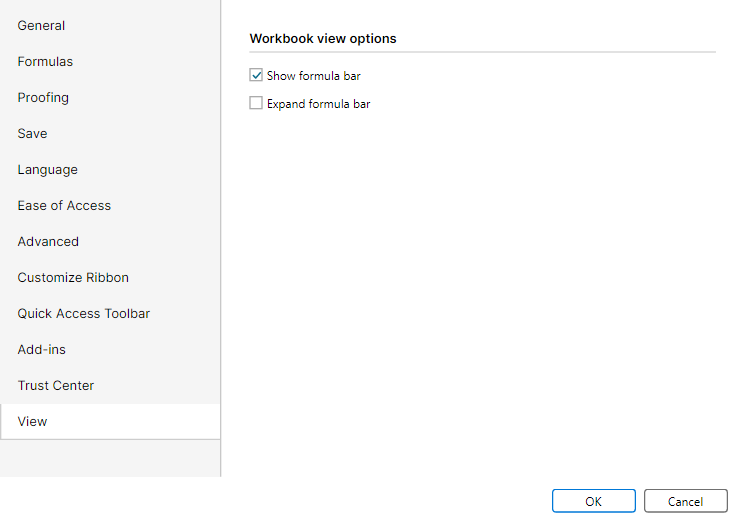
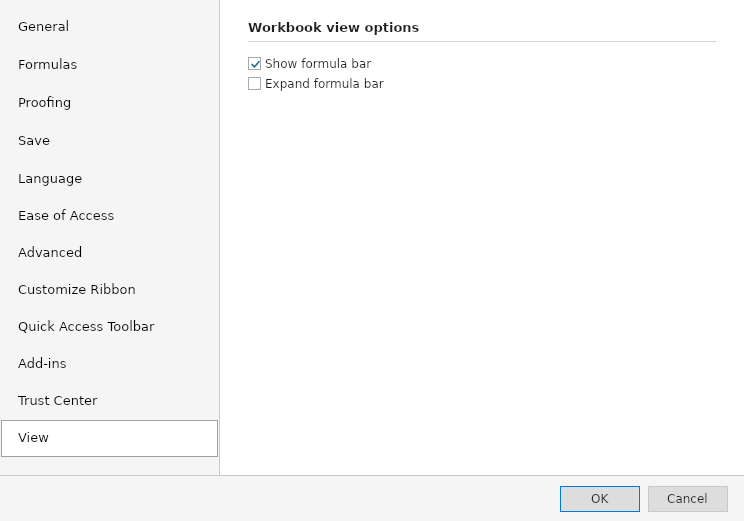
FreeX: align Avalonia Options View parity

diff --git a/src/FreeX.App.Avalonia/MainWindow.Options.cs b/src/FreeX.App.Avalonia/MainWindow.Options.cs
@@ -52,8 +52,11 @@ public sealed partial class MainWindow
         const double optionsFormulasDialogWidth = OptionsDialogPlanner.CaptureWidth;
         const double optionsFormulasDialogHeight = OptionsDialogPlanner.FormulasCaptureHeight;
 
-        // Edit a snapshot loaded from the shared store so unmanaged fields round-trip untouched.
-        var current = AppOptionsStore.Load();
+        // Edit a snapshot loaded from the shared store during normal use. The capture route swaps
+        // in a deterministic shared fixture so paired screenshots do not inherit user-local state.
+        var current = App.ParityCaptureOptions is null
+            ? AppOptionsStore.Load()
+            : OptionsDialogParityFixture.Create();
         var quickAccessCommandIds = QuickAccessToolbarCatalog.NormalizeCommandIds(current.QuickAccessToolbarCommands).ToList();
         var customDictionaryWords = AppOptions.NormalizeSpellCheckCustomDictionaryWords(current.SpellCheckCustomDictionaryWords);
         var warningText = new TextBlock
@@ -410,9 +413,10 @@ public sealed partial class MainWindow
         AutomationProperties.SetAutomationId(showHeadingsBox, "OptionsShowHeadingsCheckBox");
 
         var viewPanel = OptionsCategoryPanel(
-            OptionsSectionHeader(OptionsText("Options_WorkbookViewOptions")),
+            OptionsSectionHeader(OptionsText("Options_WorkbookViewOptions"), topMargin: 0, bottomMargin: 12),
             showFormulaBarBox,
             OptionsCheckBox(OptionsText("Options_ExpandFormulaBar"), isEnabled: showFormulaBarBox.IsChecked == true));
+        viewPanel.Spacing = 0;
 
         // ── Save ────────────────────────────────────────────────────────────────
         var defaultFormatBox = new ComboBox
@@ -984,6 +988,11 @@ public sealed partial class MainWindow
         for (var i = 0; i < categoryNames.Length; i++)
         {
             var index = i;
+            // Avalonia rounds each row independently. Match WPF's 37.36 px logical row at
+            // 96 DPI by carrying the first five rows at 38 px and the remaining rows at 37 px.
+            var categoryItemHeight = index < 5
+                ? Math.Ceiling(OptionsDialogPlanner.CategoryItemHeight)
+                : Math.Floor(OptionsDialogPlanner.CategoryItemHeight);
             var row = new Border
             {
                 Padding = new Thickness(
@@ -992,6 +1001,10 @@ public sealed partial class MainWindow
                 BorderThickness = new Thickness(1),
                 BorderBrush = Brushes.Transparent,
                 Background = Brushes.Transparent,
+                Margin = new Thickness(1, 0, 1, 0),
+                Height = categoryItemHeight,
+                MinHeight = categoryItemHeight,
+                MaxHeight = categoryItemHeight,
                 Child = new TextBlock
                 {
                     Text = categoryNames[i],
@@ -1226,8 +1239,6 @@ public sealed partial class MainWindow
             MaxHeight = OptionsDialogPlanner.FooterHeight,
             Child = footerActions,
         };
-        DockPanel.SetDock(buttonRow, Dock.Bottom);
-
         var body = new Grid
         {
             ColumnDefinitions = new ColumnDefinitions($"{OptionsDialogPlanner.CategoryColumnWidth},*"),
@@ -1257,11 +1268,14 @@ public sealed partial class MainWindow
         body.Children.Add(categoryFrame);
         body.Children.Add(scrollHost);
 
-        dialog.Content = new DockPanel
+        dialog.Content = new Grid
         {
             Background = Brushes.White,
-            Children = { buttonRow, body },
+            RowDefinitions = new RowDefinitions("*,Auto"),
+            Children = { body, buttonRow },
         };
+        Grid.SetRow(body, 0);
+        Grid.SetRow(buttonRow, 1);
 
         await dialog.ShowDialog(this);
     }

diff --git a/tests/FreeX.App.Avalonia.Tests/OptionsDialogAdvancedParitySourceTests.cs b/tests/FreeX.App.Avalonia.Tests/OptionsDialogAdvancedParitySourceTests.cs
@@ -35,6 +35,22 @@ public sealed class OptionsDialogAdvancedParitySourceTests
     }
 
     [Fact]
+    public void ViewOptions_UsesWpfHeaderRhythmAndCaptureFixture()
+    {
+        var source = File.ReadAllText(RepoFile("src", "FreeX.App.Avalonia", "MainWindow.Options.cs"));
+        var wpf = File.ReadAllText(RepoFile("src", "FreeX.App.Host", "ParityCapture.cs"));
+        var fixture = File.ReadAllText(RepoFile("src", "FreeX.App.Services", "OptionsDialogParityFixture.cs"));
+
+        source.Should().Contain("OptionsDialogParityFixture.Create()");
+        source.Should().Contain("OptionsSectionHeader(OptionsText(\"Options_WorkbookViewOptions\"), topMargin: 0, bottomMargin: 12)");
+        source.Should().Contain("viewPanel.Spacing = 0;");
+        source.Should().Contain("RowDefinitions = new RowDefinitions(\"*,Auto\")");
+        wpf.Should().Contain("OptionsDialogParityFixture.Create()");
+        fixture.Should().Contain("ShowFormulaBar = true");
+        fixture.Should().Contain("FormulaBarExpanded = false");
+    }
+
+    [Fact]
     public void AdvancedOptions_PreservesInteractiveStatesAndObjectsSelection()
     {
         var source = File.ReadAllText(RepoFile("src", "FreeX.App.Avalonia", "MainWindow.Options.cs"));

diff --git a/src/FreeX.App.Host/ParityCapture.cs b/src/FreeX.App.Host/ParityCapture.cs
@@ -619,7 +619,7 @@ internal static class ParityCapture
                 string.Equals(targetSurfaceId, "dialog.Options.TrustCenter", StringComparison.Ordinal))
             {
                 CaptureDialogTabs(results, "dialog.Options", outDir,
-                    () => new OptionsDialog(FreeXOptions.Load()),
+                    () => new OptionsDialog(FreeXOptions.FromAppOptions(OptionsDialogParityFixture.Create())),
                     ["General", "Formulas", "Proofing", "Save", "Language", "EaseOfAccess",
                         "Advanced", "CustomizeRibbon", "QuickAccessToolbar", "AddIns", "TrustCenter", "View"],
                     captureSizeResolver: surfaceId =>
@@ -850,7 +850,7 @@ internal static class ParityCapture
             () => new HeaderFooterDialog(sheet));
 
         CaptureDialogTabs(results, "dialog.Options", outDir,
-            () => new OptionsDialog(FreeXOptions.Load()),
+            () => new OptionsDialog(FreeXOptions.FromAppOptions(OptionsDialogParityFixture.Create())),
             [
                 "General", "Formulas", "Proofing", "Save", "Language", "EaseOfAccess",
                 "Advanced", "CustomizeRibbon", "QuickAccessToolbar", "AddIns", "TrustCenter", "View",

diff --git a/tests/FreeX.App.Services.Tests/OptionsDialogPlannerTests.cs b/tests/FreeX.App.Services.Tests/OptionsDialogPlannerTests.cs
@@ -5,9 +5,21 @@ namespace FreeX.App.Services.Tests;
 public sealed class OptionsDialogPlannerTests
 {
     [Fact]
+    public void ParityFixtureUsesProductionViewDefaultsWithoutPersistingState()
+    {
+        var options = OptionsDialogParityFixture.Create();
+
+        options.ShowFormulaBar.Should().BeTrue();
+        options.FormulaBarExpanded.Should().BeFalse();
+        options.ShowGridlines.Should().BeTrue();
+        options.ShowHeadings.Should().BeTrue();
+    }
+
+    [Fact]
     public void AdvancedLayout_UsesSharedWpfCaptureMetrics()
     {
         OptionsDialogPlanner.CategoryColumnWidth.Should().Be(220);
+        OptionsDialogPlanner.CategoryItemHeight.Should().Be(37.36);
         OptionsDialogPlanner.ContentPaddingHorizontal.Should().Be(28);
         OptionsDialogPlanner.ContentPaddingVertical.Should().Be(20);
         OptionsDialogPlanner.FooterHeight.Should().Be(46);

diff --git a/src/FreeX.App.Services/OptionsDialogParityFixture.cs b/src/FreeX.App.Services/OptionsDialogParityFixture.cs
@@ -1,0 +1,16 @@
+namespace FreeX.App.Services;
+
+/// <summary>
+/// Deterministic options state used only by the WPF/Avalonia parity-capture routes.
+/// Keeping the fixture in shared services prevents paired screenshots from inheriting
+/// different user-local options stores while leaving normal launches store-backed.
+/// </summary>
+public static class OptionsDialogParityFixture
+{
+    public static AppOptions Create() => new()
+    {
+        // Keep the capture semantically aligned with the production default.
+        ShowFormulaBar = true,
+        FormulaBarExpanded = false,
+    };
+}

diff --git a/src/FreeX.App.Services/OptionsDialogPlanner.cs b/src/FreeX.App.Services/OptionsDialogPlanner.cs
@@ -41,6 +41,7 @@ public static class OptionsDialogPlanner
     public const double CategoryTopMargin = 8;
     public const double CategoryItemHorizontalPadding = 16;
     public const double CategoryItemVerticalPadding = 9;
+    public const double CategoryItemHeight = 37.36;
     public const double ContentPaddingHorizontal = 28;
     public const double ContentPaddingVertical = 20;
     public const double FooterPaddingHorizontal = 16;

diff --git a/docs/parity/dialog-visual-evidence-summary.md b/docs/parity/dialog-visual-evidence-summary.md
@@ -62,7 +62,6 @@ Outliers are ranked by a deterministic triage score: normalized 32x32 ARGB sampl
 
 | Surface id | WPF logical size | Avalonia logical size | Raw PNG sizes | Bucket | Evidence flag | Score | Sample delta | Luma delta | Non-bg delta |
 | --- | ---: | ---: | --- | --- | --- | ---: | ---: | ---: | ---: |
-| dialog.Options.View | 744x521 | 744x521 | 744x521 px @ 96 DPI vs 744x521 px @ 96 DPI |  |  | 0.099 | 0.016 | 0.006 | 0.076 |
 | dialog.Options.EaseOfAccess | 744x521 | 744x521 | 744x521 px @ 96 DPI vs 744x521 px @ 96 DPI |  |  | 0.098 | 0.015 | 0.008 | 0.075 |
 | dialog.Options.AddIns | 744x521 | 744x521 | 744x521 px @ 96 DPI vs 744x521 px @ 96 DPI |  |  | 0.097 | 0.015 | 0.006 | 0.076 |
 | dialog.FindReplace | 720x430 | 720x430 | 720x430 px @ 96 DPI vs 720x430 px @ 96 DPI |  |  | 0.095 | 0.015 | 0.005 | 0.075 |
@@ -72,6 +71,7 @@ Outliers are ranked by a deterministic triage score: normalized 32x32 ARGB sampl
 | dialog.Zoom | 300x240 | 300x240 | 450x360 px @ 144 DPI vs 300x240 px @ 96 DPI |  |  | 0.093 | 0.034 | 0.015 | 0.045 |
 | dialog.PageSetup | 600x560 | 600x560 | 600x560 px @ 96 DPI vs 600x560 px @ 96 DPI |  |  | 0.091 | 0.025 | 0.007 | 0.059 |
 | dialog.PageSetup.Page | 600x560 | 600x560 | 600x560 px @ 96 DPI vs 600x560 px @ 96 DPI |  |  | 0.091 | 0.025 | 0.007 | 0.059 |
+| dialog.FormatCells.Alignment | 620x540 | 620x540 | 620x540 px @ 96 DPI vs 620x540 px @ 96 DPI |  |  | 0.090 | 0.013 | 0.011 | 0.066 |
 
 ## Scale-Aware Dimension Mismatch Details
 
@@ -140,7 +140,7 @@ These rows have a DPI-normalized checked-in PNG size that disagrees with the dia
 | dialog.Options.QuickAccessToolbar | dialog.Options.QuickAccessToolbar.png | 744.301x521 | 744x521 px @ 96 DPI | True | dialog.Options.QuickAccessToolbar.png | 744x521 | 744x521 px @ 96 DPI | True | True | 0.047 |
 | dialog.Options.Save | dialog.Options.Save.png | 744x521 | 744x521 px @ 96 DPI | True | dialog.Options.Save.png | 744x521 | 744x521 px @ 96 DPI | True | True | 0.022 |
 | dialog.Options.TrustCenter | dialog.Options.TrustCenter.png | 744x521 | 744x521 px @ 96 DPI | True | dialog.Options.TrustCenter.png | 744x521 | 744x521 px @ 96 DPI | True | True | 0.030 |
-| dialog.Options.View | dialog.Options.View.png | 744x521 | 744x521 px @ 96 DPI | True | dialog.Options.View.png | 744x521 | 744x521 px @ 96 DPI | True | True | 0.099 |
+| dialog.Options.View | dialog.Options.View.png | 744x521 | 744x521 px @ 96 DPI | True | dialog.Options.View.png | 744x521 | 744x521 px @ 96 DPI | True | True | 0.014 |
 | dialog.PageSetup | dialog.PageSetup.png | 600x560 | 600x560 px @ 96 DPI | True | dialog.PageSetup.png | 600x560 | 600x560 px @ 96 DPI | True | True | 0.091 |
 | dialog.PageSetup.HeaderFooter | dialog.PageSetup.HeaderFooter.png | 600x560 | 600x560 px @ 96 DPI | True | dialog.PageSetup.HeaderFooter.png | 600x560 | 600x560 px @ 96 DPI | True | True | 0.043 |
 | dialog.PageSetup.Margins | dialog.PageSetup.Margins.png | 600x560 | 600x560 px @ 96 DPI | True | dialog.PageSetup.Margins.png | 600x560 | 600x560 px @ 96 DPI | True | True | 0.041 |

diff --git a/docs/parity/avalonia-parity-wave111-freex-options-view-20260802.md b/docs/parity/avalonia-parity-wave111-freex-options-view-20260802.md
@@ -1,0 +1,20 @@
+# Avalonia Parity Wave111: FreeX Options View
+
+Date: 2026-08-02
+
+## Delivered
+
+- Aligned Avalonia `dialog.Options.View` with the WPF authority at the shared `744x521` client frame: explicit body/footer rows, WPF-matched View header rhythm, and fractional category-row rasterization with the WPF 1 px horizontal inset.
+- Added `OptionsDialogParityFixture` in shared services. Normal launches remain store-backed; both parity-capture routes use the same explicit fixture so screenshots cannot inherit different user-local options stores.
+- The fixture keeps the production default semantic state: `ShowFormulaBar=true`, `FormulaBarExpanded=false`.
+
+## Evidence
+
+- Fresh WPF and Avalonia captures were produced from the parity harness. Both are `744x521` at `96 DPI`, nonblank, and are promoted under `docs/parity/dialog-visual-assets`.
+- Existing canonical pair: triage score `0.098637`; normalized pixel comparison `2.04%`.
+- Fresh pair: triage score `0.014`; normalized pixel comparison `1.153%`.
+
+## Remaining
+
+- The remaining difference is primarily platform text and checkbox rasterization; the former Options.View sidebar/footer/state drift is removed.
+- The full parity runner still reports the repository's unrelated native name-box contract as unavailable in Docker; the targeted Avalonia capture itself completed successfully.
